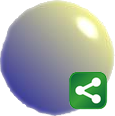
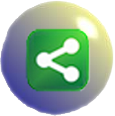
Fixing openID users to work with /site/browse/jdwyah.blogspot.com/Books
Better shared ball image.

git-svn-id: file:///a/svnrepos/hippo/code/trunk/HippoTest@456 b8d5060c-ad15-0410-9d10-96fc93d4f2a4

diff --git a/src/main/webapp/css/style.css b/src/main/webapp/css/style.css
@@ -236,12 +236,12 @@ h3 a:hover {
 }
 
 li .info {	
-	font-size: 1.9em;	
+	font-size: 1.0em;	
 	font-weight: bold;
 	position:absolute;
 	right:0.1em;
 	top:0.1em;
-	width: 12em;	
+	width: 200px;	
 }
 /*
 position: absolute;
@@ -250,7 +250,7 @@ position: absolute;
 */
 .info .type {
 	color: gray;
-	font-size: .5em;
+	font-size: 6pt;
 }
 
 .subTopics {

diff --git a/src/main/java/com/aavu/server/web/controllers/MVCBrowseController.java b/src/main/java/com/aavu/server/web/controllers/MVCBrowseController.java
@@ -78,7 +78,15 @@ public class MVCBrowseController extends BasicController {
 	private ModelAndView userAndTopic(Map<String, Object> model, String userString,
 			String topicString) {
 		try {
-			Topic result = topicService.getPublicTopic(userString, topicString);
+
+			User u = userService.getUserWithNormalization(userString);
+
+			if (u == null) {
+				return new ModelAndView(getNotFoundView(), "message", "User " + userString
+						+ " not found.");
+			}
+
+			Topic result = topicService.getPublicTopic(u.getUsername(), topicString);
 
 			model.put("topic", result);
 

diff --git a/src/main/java/com/aavu/server/service/impl/TopicServiceImpl.java b/src/main/java/com/aavu/server/service/impl/TopicServiceImpl.java
@@ -484,6 +484,7 @@ public class TopicServiceImpl implements TopicService, ApplicationContextAware {
 		Topic t = selectDAO.getPublicForName(userString, topicString);
 		if (t != null) {
 			return t;
+
 		} else {
 			if (userService.exists(userString)) {
 				throw new HippoBusinessException("No Topic Found");

diff --git a/src/main/java/com/aavu/client/domain/User.java b/src/main/java/com/aavu/client/domain/User.java
@@ -58,7 +58,7 @@ public class User extends AbstractUser implements IsSerializable {
 	public String getNickname() {
 		if (isOpenID()) {
 			String half = getUsername().replaceAll("http://", "");
-			return half.replaceAll("/", ".");
+			return half.replaceAll("/", "");
 		}
 		return getUsername();
 	}
